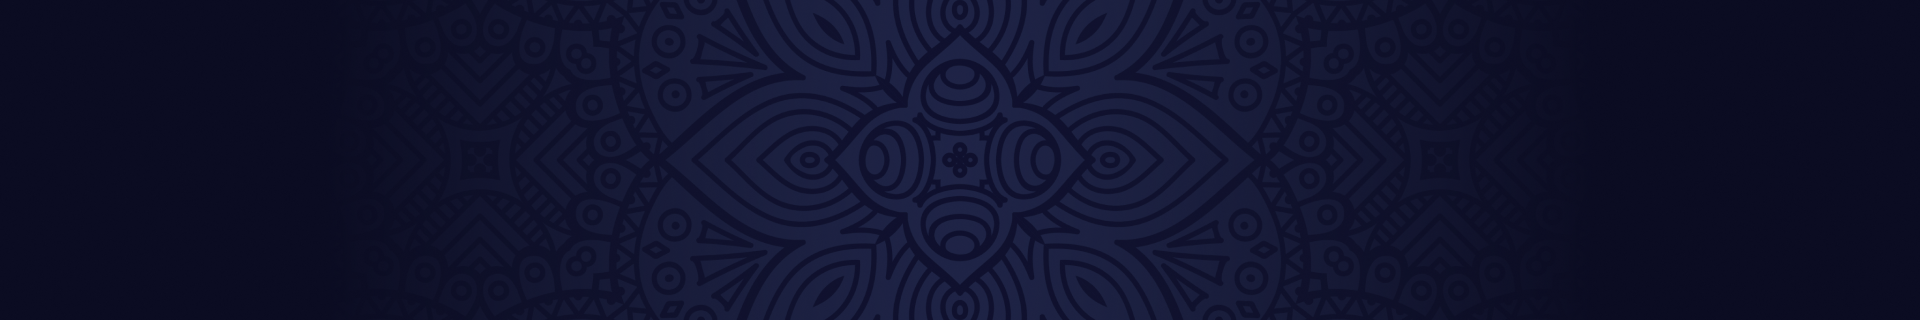
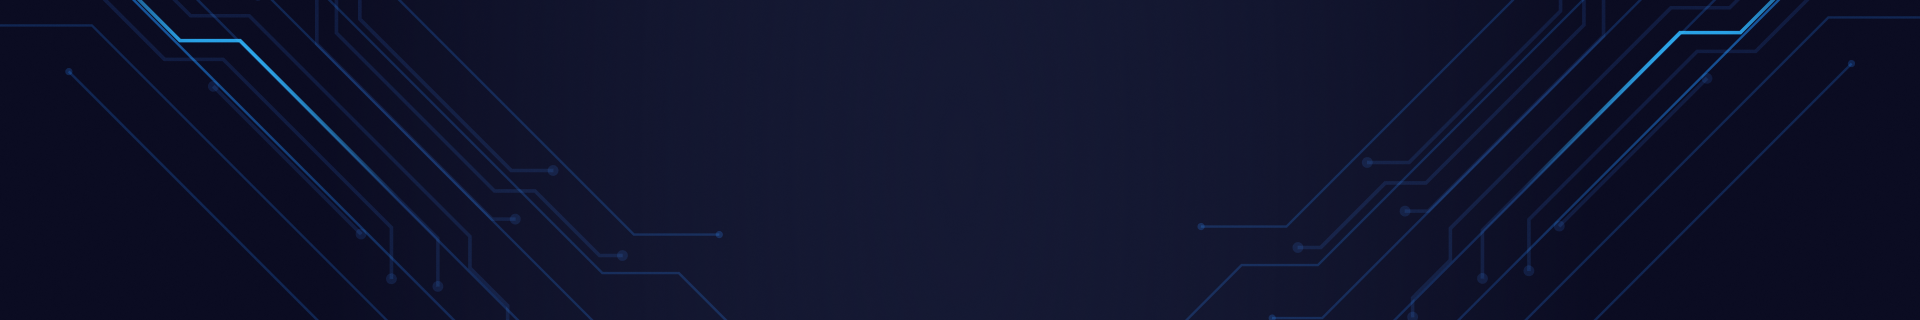
Update Homepage, Header, footer

diff --git a/src/components/homepageComponents/components/table/TableHomepage.jsx b/src/components/homepageComponents/components/table/TableHomepage.jsx
@@ -4,7 +4,7 @@ import { convertNumber } from "../../../../assets/js";
 
 import { useHistory } from "react-router-dom";
 
-export default function TableHomepage({ dataHome }) {
+export default function TableHomepage({dataHome}) {
   const history = useHistory();
 
   return (
@@ -14,17 +14,19 @@ export default function TableHomepage({ dataHome }) {
           <table id="homepage-table">
             <thead className="tb-border-bottom">
               <tr className="text-white">
-                <th className="text-left">Pasangan</th>
-                <th className="text-left">Nama Koin</th>
-                <th className="text-left">Persentase</th>
-                <th className="text-left">Harga (24 jam)</th>
-                <th className="text-left">High (24 jam)</th>
-                <th className="text-left">Low (24 jam)</th>
-                <th className="text-left">Volume (24 jam)</th>
+                <th className="text-left">Symbol Coin</th>
+                <th className="text-left">Coin Name</th>
+                <th className="text-left">Percentage</th>
+                <th className="text-left">Price (24 Hours)</th>
+                <th className="text-left">High (24 Hours)</th>
+                <th className="text-left">Low (24 Hours)</th>
+                <th className="text-left">Volume (24 Hours)</th>
               </tr>
             </thead>
             <tbody>
-              {dataHome && Array.isArray(dataHome) && dataHome.length > 0 ? (
+              {dataHome &&
+              Array.isArray(dataHome) &&
+              dataHome.length > 0 ? (
                 dataHome.map((item) => {
                   const handleRowClick = (row) => {
                     history.push(
@@ -50,10 +52,7 @@ export default function TableHomepage({ dataHome }) {
                       </td>
                       <td className="text-white text-left">{item.assetName}</td>
                       <td
-                        className={`${convertNumber.tradeUpDownChangeHomepage(
-                          item.price24h_change,
-                          2,
-                        )}`}
+                        className={`${convertNumber.tradeUpDownChange(item.price24h_change, 2)}`}
                       >
                         {convertNumber.tradeChange(item.price24h_change, 2)}
                       </td>
@@ -80,8 +79,7 @@ export default function TableHomepage({ dataHome }) {
                   </td>
                 </tr>
               )}
-              {/* 
-                      <tr className="tb-border-bottom2">
+              {/* <tr className="tb-border-bottom2">
                         <td className="text-white table-center">
                           <img
                             src=""

diff --git a/src/components/homepageComponents/components/calculator/CalculatorAsetHomepage.jsx b/src/components/homepageComponents/components/calculator/CalculatorAsetHomepage.jsx
@@ -2,7 +2,6 @@ import React, { useState, useEffect } from "react";
 import { baseAxiosTrading } from "../../../../stores";
 import { parseFixedNumber } from "../../../../helpers/functions";
 import DropdownWithLogo from "../../../dropdownLogo";
-import bitcoinIcon from "../../../../assets/img/trade/cryptologo/Bitcoin_BTC.svg"
 
 let nowDate = new Date();
 
@@ -19,7 +18,7 @@ export default function CalculatorAsetHomepage() {
   const handleFromChange = (value) => {
     if (pricePairs) {
       let newValue = value.replace(/[^0-9.,]+/, "");
-      setFromText(parseFixedNumber(newValue, 18));
+      setFromText(parseFixedNumber(newValue));
       setToText(
         parseFixedNumber(
           parseFloat(
@@ -27,7 +26,7 @@ export default function CalculatorAsetHomepage() {
               pricePairs[`${activePairFrom}/${activePairTo}`],
           )
             .toString()
-            .replace(".", ","), 18
+            .replace(".", ","),
         ),
       );
     }
@@ -36,7 +35,7 @@ export default function CalculatorAsetHomepage() {
   const handleToChange = (value) => {
     if (pricePairs) {
       let newValue = value.replace(/[^0-9.,]+/, "");
-      setToText(parseFixedNumber(newValue,18));
+      setToText(parseFixedNumber(newValue));
       setFromText(
         parseFixedNumber(
           parseFloat(
@@ -44,7 +43,7 @@ export default function CalculatorAsetHomepage() {
               pricePairs[`${activePairFrom}/${activePairTo}`],
           )
             .toString()
-            .replace(".", ","), 18
+            .replace(".", ","),
         ),
       );
     }
@@ -128,7 +127,7 @@ export default function CalculatorAsetHomepage() {
                 />
               </div>
               <div class="absolute-right" style={{right:'10px', top:'3px'}}>
-                <DropdownWithLogo value={activePairFrom} icon={bitcoinIcon} onChange={setActivePairFrom} dataOptions={fromPair()}/>
+                <DropdownWithLogo value={activePairFrom} icon={"https://storage.googleapis.com/cryptoindex/Bitcoin_BTC.svg"} onChange={setActivePairFrom} dataOptions={fromPair()}/>
               </div>
             </div>
             <div className="form-group col-md-6 relative-div">

diff --git a/src/components/footerComponents/footerHomePage/FooterHomePage.jsx b/src/components/footerComponents/footerHomePage/FooterHomePage.jsx
@@ -1,5 +1,5 @@
 import React, { useState } from "react";
-import logo from "../../../assets/img/logo.svg";
+import logo from "../../../assets/img/logoArchidax.png";
 // import { useHistory } from "react-router-dom";
 import Translate from "../../../i18n/Translate";
 
@@ -220,18 +220,15 @@ export default function FooterHomePage() {
                 style={{ background: "rgba(255, 0, 0, 0.4)" }}
                 className="px-2 py-1"
               >
-                Pernyataan Resiko :
+                Risk Statement :
               </span>
             </p>
             <p
               className="text-white font-12 mb-0"
               style={{ fontStyle: "italic" }}
             >
-              Perdagangan Digital aset (crypto) memiliki resiko yang tinggi.
-              Pertimbangan dan keputusan ada di tangan Pengguna Cryptoindex
-              tidak memaksakan pengguna melakukan aktivitas dan transaksi jual
-              beli dan semua keputusan jual beli aset uang digital Anda adalah
-              keputusan Anda sendiri dan tidak dipengaruhi oleh pihak manapun.{" "}
+              Trading digital assets (crypto) carries a high risk.
+              Considerations and decisions are in the hands of Cryptoindex users not to force users to carry out buying and selling activities and transactions and all buying and selling decisions of your digital money assets are your own decisions and are not influenced by any party.{" "}
             </p>
           </div>
         </div>
@@ -242,7 +239,7 @@ export default function FooterHomePage() {
             <hr className="hr-copyright" />
             <div className="d-flex justify-content-between">
               <p className="text-white mb-0 py-2 font-13">
-                Copyright © 2021 CryptoIndex. All Rights Reserved
+                Copyright © 2021 Archidax. All Rights Reserved
               </p>
 
               <div

diff --git a/src/styles/components/_banner.scss b/src/styles/components/_banner.scss
@@ -1,27 +1,27 @@
 .bannersyaratdanketentuan {
   height: 280px;
-  background-image: url(../../assets/img/footercomponents/syaratpengguna/bannersyaratpengguna.png);
+  background-image: url(../../assets/img/footercomponents/banner_archidax/Frame1.png);
   background-size: cover;
   background-position: center;
 }
 
 .bannerkebijakanprivasi {
   height: 280px;
-  background-image: url(../../assets/img/footercomponents/kebijakanprivasi/kebijakanprivasi.png);
+  background-image: url(../../assets/img/footercomponents/banner_archidax/Frame2.png);
   background-size: cover;
   background-position: center;
 }
 
 .perjanjianpengguna {
   height: 280px;
-  background-image: url(../../assets/img/footercomponents/perjanjianpengguna/perjanjianpengguna.png);
+  background-image: url(../../assets/img/footercomponents/banner_archidax/Frame3.png);
   background-size: cover;
   background-position: center;
 }
 
 .feesbanners {
   height: 280px;
-  background-image: url(../../assets/img/footercomponents/fee/feedepowd.png);
+  background-image: url(../../assets/img/footercomponents/banner_archidax/Frame4.png);
   background-size: cover;
   background-position: center;
 }
@@ -30,7 +30,7 @@
   background: $theme-BlueDarkPrimaryBase-BackgroundDefault;
   font-style: normal;
   .belikripto {
-    background: url(../../assets/img/footercomponents/belikripto/belikripto.png);
+    background: url(../../assets/img/footercomponents/banner_archidax/Frame5.png);
     background-position: center;
     background-size: cover;
     margin-bottom: 0;

diff --git a/src/components/footerComponents/pernyataanResiko/PernyataanResikoTrade.jsx b/src/components/footerComponents/pernyataanResiko/PernyataanResikoTrade.jsx
@@ -10,15 +10,12 @@ export default function PernyataanResikoTrade() {
             style={{ background: "rgba(255, 0, 0, 0.4)" }}
             className="px-2 py-1"
           >
-            Pernyataan Resiko :
+            Risk Statement :
           </span>
         </p>
         <p className={`${mode ? "text-price-dark" : "text-price"} mb-0`} style={{ fontStyle: "italic" }}>
-          Perdagangan Digital aset (crypto) memiliki resiko yang tinggi.
-          Pertimbangan dan keputusan ada di tangan Pengguna Cryptoindex tidak
-          memaksakan pengguna melakukan aktivitas dan transaksi jual beli dan
-          semua keputusan jual beli aset uang digital Anda adalah keputusan Anda
-          sendiri dan tidak dipengaruhi oleh pihak manapun.{" "}
+          Trading digital assets (crypto) carries a high risk.
+          Considerations and decisions are in the hands of Cryptoindex users not to force users to carry out buying and selling activities and transactions and all buying and selling decisions of your digital money assets are your own decisions and are not influenced by any party.{" "}
         </p>
       </div>
     </div>

diff --git a/src/components/homepageComponents/components/SliderHomepage.jsx b/src/components/homepageComponents/components/SliderHomepage.jsx
@@ -3,15 +3,11 @@ import SliderTopGainer from "./slider/SliderTopGainer";
 import SliderTopLoser from "./slider/SliderTopLoser";
 
 export default function SliderHomepage({dataHome}){
-  const [topGainer, setTopGainer] = React.useState([])
-  const [topLoser, setTopLoser] = React.useState([])
+  let topGainer = dataHome.sort((a, b) => b.price24h_change - a.price24h_change)
+  .filter((item) => item.price24h_change > 0)||[]
 
-  React.useEffect(() => {
-    if(dataHome&&dataHome.length) {
-      setTopGainer(dataHome.sort((a, b) => b.price24h_change - a.price24h_change).filter((item) => item.price24h_change > 0))
-      setTopLoser(dataHome.sort((a, b) => a.price24h_change - b.price24h_change).filter((item) => item.price24h_change < 0))
-    }
-  }, [dataHome])
+  let topLoser = dataHome.sort((a, b) => a.price24h_change - b.price24h_change)
+  .filter((item) => item.price24h_change < 0)||[]
 
   return (
     <div className=" mt-4 mb-5">

diff --git a/src/components/headerComponents/headerHomePage/index.jsx b/src/components/headerComponents/headerHomePage/index.jsx
@@ -1,6 +1,6 @@
 import React from "react";
 import { Link } from "react-router-dom";
-import logo from "../../../assets/img/logo_flat.svg";
+import logo from "../../../assets/img/logoArchidax.png";
 import giflogo from "../../../assets/img/header/headerhomepage/blip.gif";
 import Flags from "../headerDashboard/elements/flagsdropdown";
 
@@ -10,7 +10,7 @@ function HeaderHomePage(props) {
   // eslint-disable-next-line
 
   return (
-    <nav className="navbar navbar-expand-lg navbar-light bg-transparent px-5 py-3 font-roboto ">
+    <nav className={`navbar navbar-expand-lg navbar-light bg-transparent px-5 py-3 font-roboto ${props.bg_normal}`} >
       <Link to="/home">
         <a
           className="navbar-brand"

diff --git a/src/components/homepageComponents/index.jsx b/src/components/homepageComponents/index.jsx
@@ -19,12 +19,10 @@ function Home(props) {
     });
   }, [setMarketData]);
 
-  console.log(MarketData);
-
   return (
     <div className="navbar-homePage">
       <div className="navbar-top">
-        <HeaderHomePage setLocale={props.setLocale} />
+        <HeaderHomePage setLocale={props.setLocale} bg_normal="bg-header-homepage"/>
         <BannerHomepage setLocale={props.setLocale} />
         <SliderHomepage setLocale={props.setLocale} dataHome={MarketData} />
         <TableHomepage setLocale={props.setLocale} dataHome={MarketData} />

diff --git a/src/components/headerComponents/sidebarDashboard/index.jsx b/src/components/headerComponents/sidebarDashboard/index.jsx
@@ -2,7 +2,7 @@ import React from "react";
 import { Link, useLocation } from "react-router-dom";
 
 // Import Images
-import logoIcon from "../../../assets/img/logo_flat.svg";
+import logoIcon from "../../../assets/img/logoArchidax.png";
 import profilelogo from "../../../assets/img/header/headerdashboard/profile.svg";
 import keamananlogo from "../../../assets/img/header/headerdashboard/keamanan.svg";
 import riwayatlogo from "../../../assets/img/header/headerdashboard/riwayat.svg";

diff --git a/src/components/headerComponents/headerDashboard/index.jsx b/src/components/headerComponents/headerDashboard/index.jsx
@@ -7,7 +7,7 @@ import NotificationDropdownHeader from "./elements/notificationdropdown";
 import ProfileDropdownHeader from "./elements/profiledropdown";
 import WalletsDropdownHeader from "./elements/walletsdropdown";
 
-import logoIcon from "../../../assets/img/logo.svg";
+import logoIcon from "../../../assets/img/logoArchidax.png";
 
 function HeaderDashboard(props) {
   // const { url } = useRouteMatch();

diff --git a/src/styles/pages/_homepage.scss b/src/styles/pages/_homepage.scss
@@ -2,12 +2,17 @@
   background-color: #0b0c22;
 }
 
+.bg-header-homepage {
+  box-shadow: 0px 0px 24px #151933 !important;
+  background-color: #151933 !important;
+}
+
 .bg-homepage2 {
   background-color: #151933;
 }
 
 .bg-homepage-banner {
-  background-image: url(../../assets/img/background/homepage.jpg);
+  background-image: url(../../assets/img/background/homepage.png);
   background-size: cover;
 }
 

diff --git a/src/components/homepageComponents/components/BannerHomepage.jsx b/src/components/homepageComponents/components/BannerHomepage.jsx
@@ -47,7 +47,7 @@ export default function BannerHomepage() {
               <SliderBannerHomepage />
             </div>
             <div className="col-lg-11 offset-lg-1 col-xs-12 mt-4 p-0">
-              <img src={group} style={{ width: "100%" }} />
+              {/* <img src={group} style={{ width: "100%" }} /> */}
               {/* <div
                 style={{
                   display: "flex",
